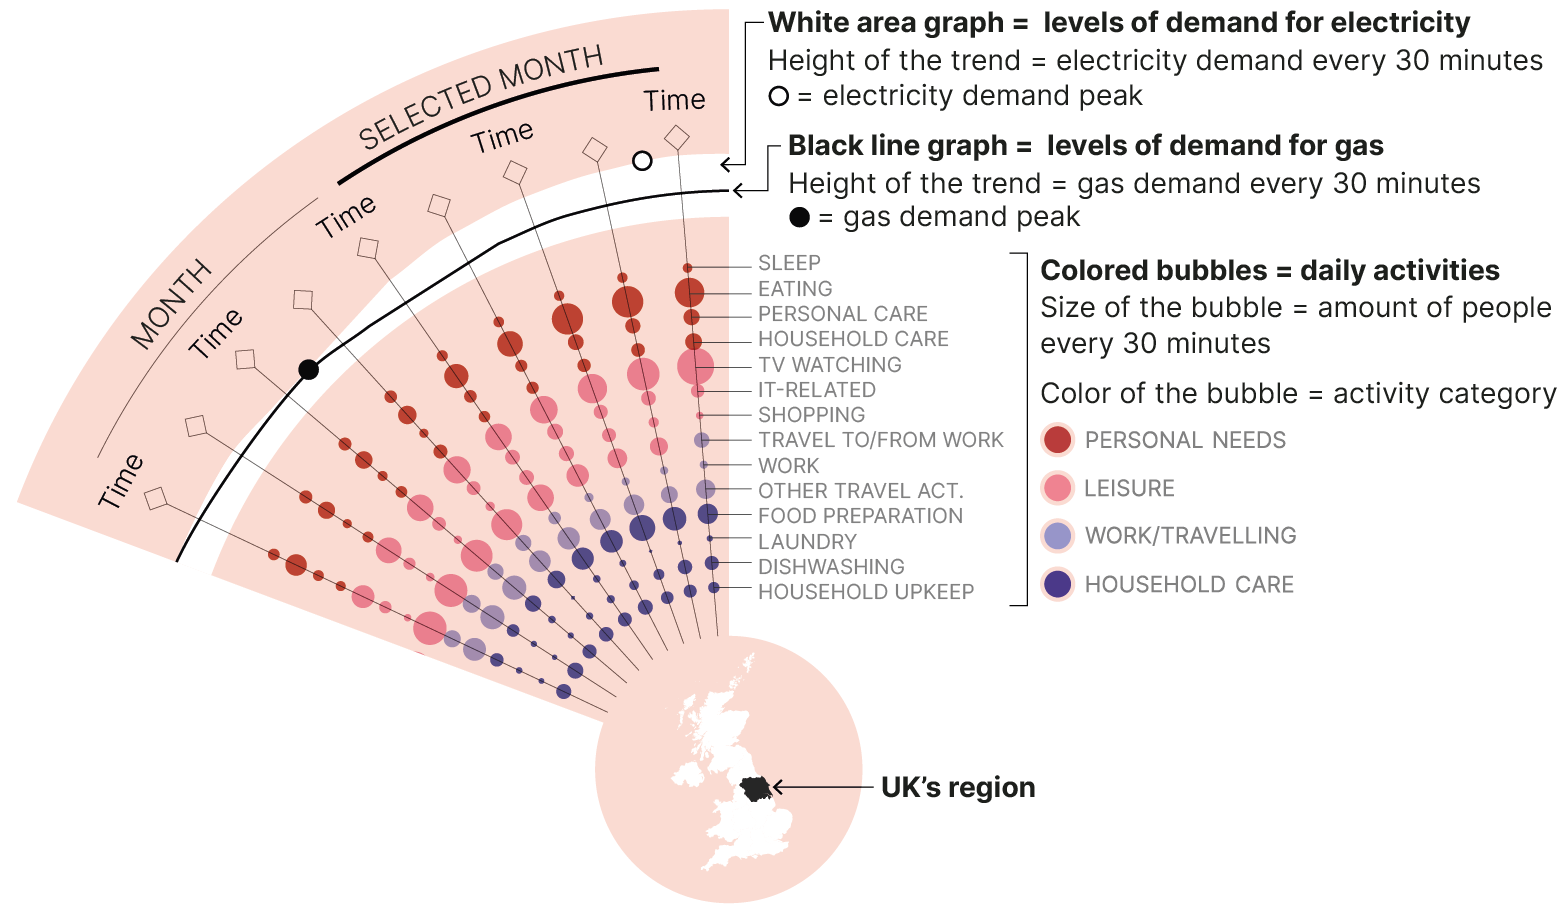
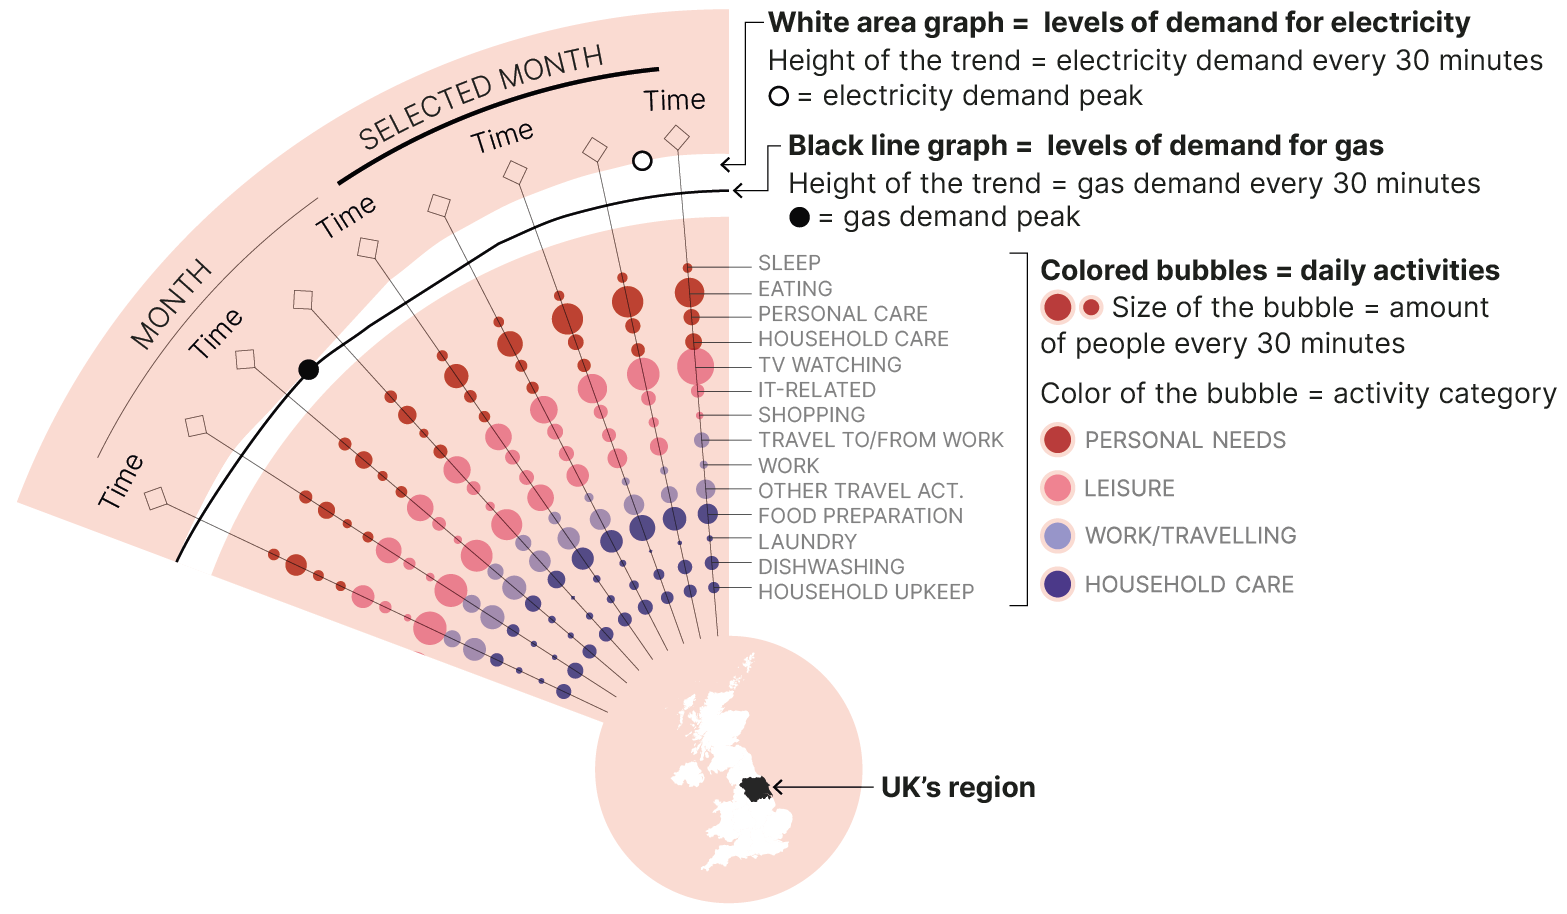
update

Changed region(s): [[0.6433, 0.3063, 0.9802, 0.3982]]

diff --git a/components/Section2.jsx b/components/Section2.jsx
@@ -122,7 +122,9 @@ const Section2 = ({
         </div>
         {mobile && (
           <HowToRead
-            text={""}
+            text={
+              "The graphic shows the daily activities' frequency every 10 minutes"
+            }
             image={"/legend-2.png"}
             readOpen={open}
             setHowToReadOpen={setHowToReadOpen}
@@ -131,7 +133,9 @@ const Section2 = ({
       </RightColumn>
       {!mobile && (
         <HowToRead
-          text={""}
+          text={
+            "The graphic shows the daily activities' frequency every 10 minutes"
+          }
           image={"/legend-2.png"}
           readOpen={open}
           setHowToReadOpen={setHowToReadOpen}

diff --git a/components/Radar/RadarYear.jsx b/components/Radar/RadarYear.jsx
@@ -580,7 +580,7 @@ const RadarYear = ({
                                     />
                                   </g>
 
-                                  {j % 2 === 0 && !isSafari && (
+                                  {j % 2 === 0 && !isSafari && !isIOS && (
                                     <text
                                       dx={0}
                                       dy={(width / 2) * 0.99}
